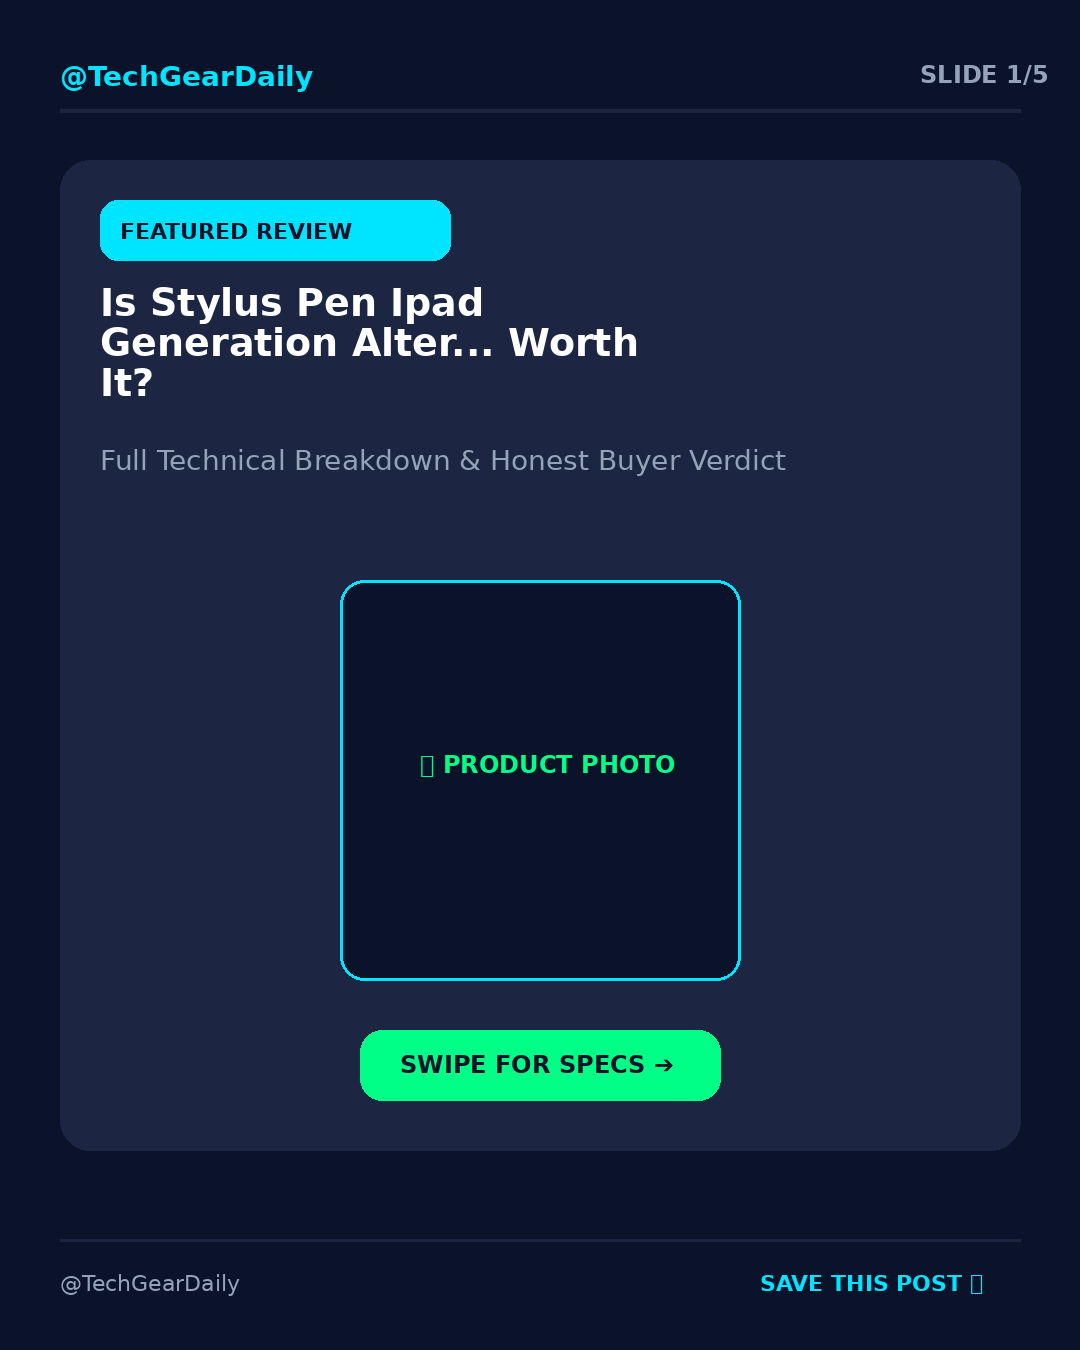
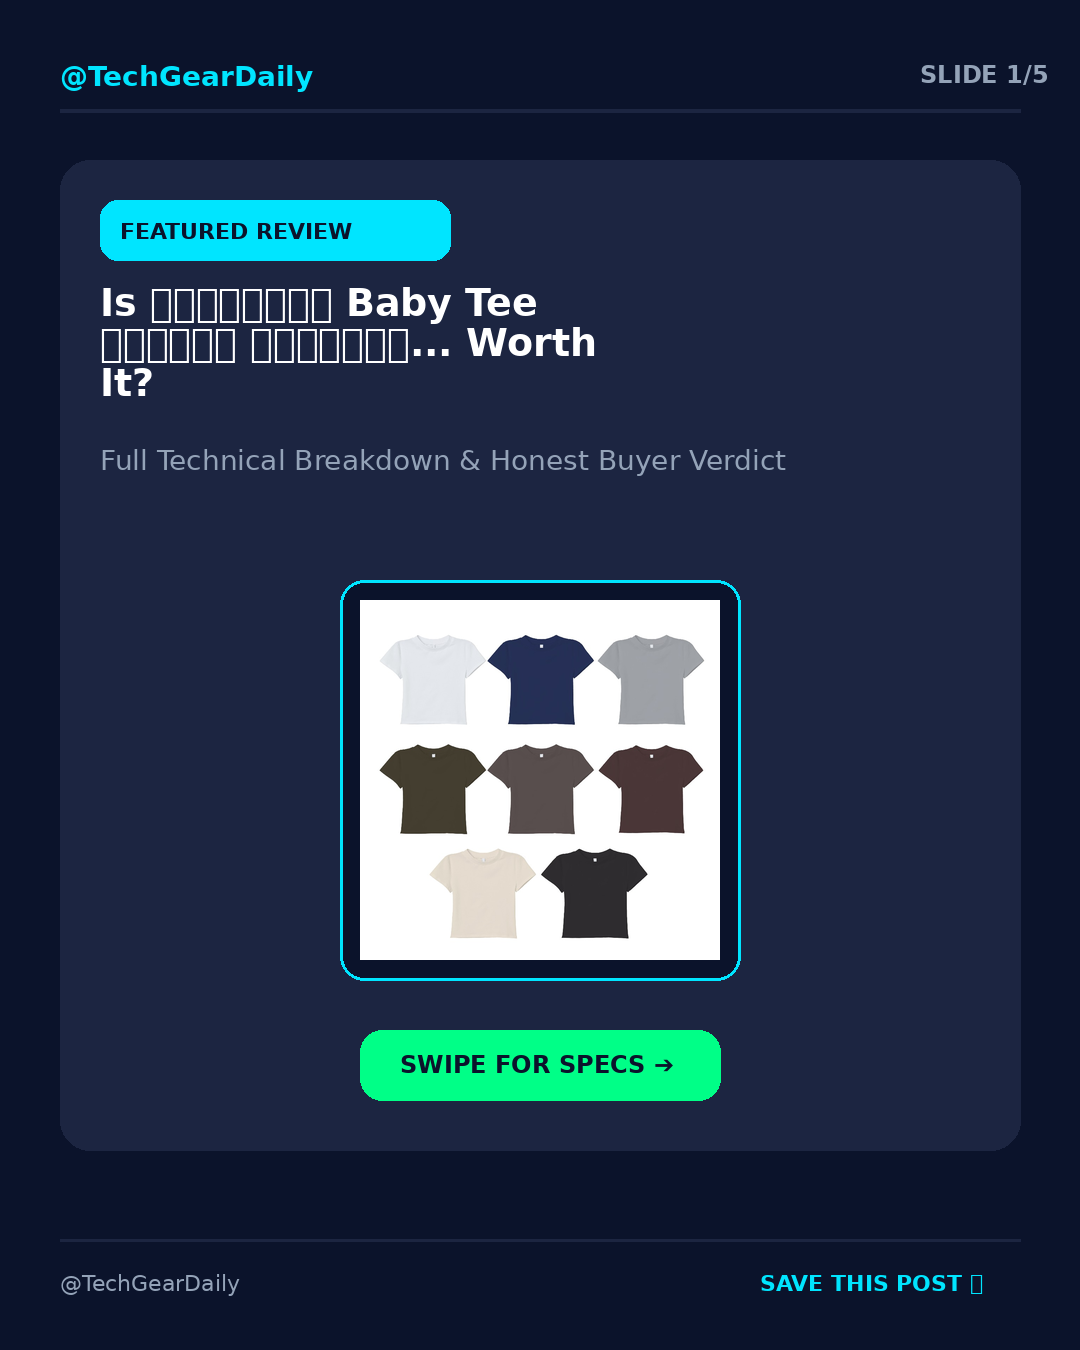
Fix Shopee URL support and exact input URL passing without hardcoded overrides

Changed region(s): [[0.3361, 0.4356, 0.6722, 0.7156], [0.0917, 0.2178, 0.6111, 0.28]]

diff --git a/core/composer.py b/core/composer.py
@@ -62,18 +62,25 @@ def get_font(size: int, bold: bool = False):
 
 def fetch_product_image(image_url: Optional[str], target_size: tuple = (360, 360)) -> Optional[Image.Image]:
     """
-    Fetches and resizes real product image over HTTP.
+    Fetches and resizes real product image over HTTP with image headers.
     """
     if not image_url:
         return None
+    headers = {
+        "User-Agent": "Mozilla/5.0 (Macintosh; Intel Mac OS X 10_15_7) AppleWebKit/537.36 (KHTML, like Gecko) Chrome/122.0.0.0 Safari/537.36",
+        "Accept": "image/avif,image/webp,image/apng,image/svg+xml,image/*,*/*;q=0.8",
+        "Referer": "https://www.google.com/"
+    }
     try:
-        res = requests.get(image_url, headers={"User-Agent": "Mozilla/5.0 (Macintosh; Intel Mac OS X 10_15_7)"}, timeout=6)
-        if res.status_code == 200 and len(res.content) > 1000:
+        print(f"[Composer Engine] Fetching product photo: {image_url}")
+        res = requests.get(image_url, headers=headers, timeout=8)
+        print(f"[Composer Engine] HTTP Response: {res.status_code}, Length: {len(res.content)} bytes")
+        if res.status_code == 200 and len(res.content) > 500:
             img = Image.open(io.BytesIO(res.content))
-            # Convert to RGB to flatten transparency issues for JPEGs/PNGs
             if img.mode != "RGB":
                 img = img.convert("RGB")
             img = ImageOps.fit(img, target_size, method=Image.Resampling.LANCZOS)
+            print("✓ [Composer Engine] Successfully fitted real product image to (360x360)!")
             return img
     except Exception as e:
         print(f"[Warning] Failed to fetch image '{image_url}': {e}")
@@ -87,7 +94,7 @@ def render_slide_card(
     product_image_url: Optional[str] = None
 ) -> Image.Image:
     """
-    Renders a single 1080x1350 px Instagram Carousel Slide with optional real product image.
+    Renders a single 1080x1350 px Instagram Carousel Slide with real product image.
     """
     width, height = 1080, 1350
     palette = COLOR_THEMES.get(theme_name.lower(), COLOR_THEMES["dark_cyan"])
@@ -95,7 +102,7 @@ def render_slide_card(
     img = Image.new("RGB", (width, height), palette["bg"])
     draw = ImageDraw.Draw(img)
 
-    # 1. Header Bar & Brand Watermark
+    # Header Bar
     font_brand = get_font(28, bold=True)
     draw.text((60, 60), brand_name, fill=palette["accent"], font=font_brand)
     draw.text((width - 160, 60), f"SLIDE {slide_num}/5", fill=palette["text_sub"], font=get_font(24, bold=True))
@@ -134,7 +141,6 @@ def render_slide_card(
         draw.rounded_rectangle(photo_box, radius=24, fill=palette["bg"], outline=palette["accent"], width=3)
 
         if prod_img:
-            # Paste RGB product image directly onto canvas
             img.paste(prod_img, (width // 2 - 180, 600))
         else:
             draw.text((width // 2 - 120, 750), "📷 PRODUCT PHOTO", fill=palette["accent_secondary"], font=get_font(24, bold=True))
@@ -184,13 +190,12 @@ def render_slide_card(
             y_c += (len(wrapped_con.split("\n")) * 32) + 20
 
     elif slide_num == 4:
-        # VERDICT & SCORE SLIDE
+        # VERDICT SLIDE
         v_data = slide_data.get("slide_4_verdict", {})
         draw.text((60, 140), v_data.get("title", "Final Verdict"), fill=palette["accent"], font=font_title)
 
         draw.rounded_rectangle([(60, 240), (width - 60, 1120)], radius=30, fill=palette["card_bg"])
         
-        # Rating Circle Badge
         draw.ellipse([(width // 2 - 130, 300), (width // 2 + 130, 560)], fill=palette["accent"])
         draw.text((width // 2 - 90, 390), v_data.get("score", "9.4/10"), fill=palette["bg"], font=get_font(42, bold=True))
 
@@ -198,24 +203,22 @@ def render_slide_card(
         draw.text((100, 690), v_data.get("summary", "Highly recommended.")[:180], fill=palette["text"], font=font_body)
 
     else:
-        # CTA SLIDE (SLIDE 5)
+        # CTA SLIDE
         cta_data = slide_data.get("slide_5_cta", {})
         draw.rounded_rectangle([(60, 220), (width - 60, 1120)], radius=30, fill=palette["card_bg"])
         
         draw.text((100, 290), "READY TO BUY?", fill=palette["accent"], font=get_font(30, bold=True))
         draw.text((100, 360), cta_data.get("title", "Where To Buy"), fill=palette["text"], font=font_title)
 
-        # Store Button
         draw.rounded_rectangle([(100, 520), (width - 100, 640)], radius=24, fill=palette["accent"])
         draw.text((140, 560), "🛍 " + cta_data.get("button_text", "Available on Amazon Prime")[:35], fill=palette["bg"], font=get_font(30, bold=True))
 
-        # Bio Link Prompt
         draw.rounded_rectangle([(100, 690), (width - 100, 810)], radius=24, fill=palette["accent_secondary"])
         draw.text((140, 730), "🔗 " + cta_data.get("prompt", f"Link in Bio: {brand_name}")[:35], fill=palette["bg"], font=get_font(30, bold=True))
 
         draw.text((width // 2 - 180, 920), "💬 Comment 'AMAZON' for direct link!", fill=palette["text_sub"], font=get_font(22, bold=True))
 
-    # 3. Footer Branding
+    # Footer
     draw.line([(60, 1240), (width - 60, 1240)], fill=palette["card_bg"], width=3)
     draw.text((60, 1270), brand_name, fill=palette["text_sub"], font=get_font(22, bold=False))
     draw.text((width - 320, 1270), "SAVE THIS POST 🔖", fill=palette["accent"], font=get_font(22, bold=True))
@@ -228,9 +231,6 @@ def compose_full_carousel(
     brand_name: str = "@TechGearDaily",
     product_image_url: Optional[str] = None
 ) -> List[Dict[str, Any]]:
-    """
-    Renders all 5 carousel slides and returns Base64 encoded PNG data strings.
-    """
     slides_output = []
 
     for i in range(1, 6):

diff --git a/core/scraper.py b/core/scraper.py
@@ -47,6 +47,9 @@ def extract_amazon_asin(url: str) -> Optional[str]:
     return None
 
 def fetch_vqd_product_photo(query: str) -> Optional[str]:
+    """
+    Retrieves real high-resolution product photo via DuckDuckGo VQD token image search engine.
+    """
     try:
         session = requests.Session()
         search_query = f"{query} product photo"
@@ -91,14 +94,27 @@ def parse_html_metadata(html: str, url: str) -> Dict[str, Any]:
     if not html:
         return extracted
 
+    # OpenGraph Title
+    og_title = re.search(r'<meta[^>]+property=["\']og:title["\'][^>]+content=["\']([^"\']+)["\']', html, re.IGNORECASE)
+    if og_title:
+        extracted["title"] = og_title.group(1).split("|")[0].split("-")[0].strip()
+
+    # OpenGraph Image
+    og_img = re.search(r'<meta[^>]+property=["\']og:image["\'][^>]+content=["\']([^"\']+)["\']', html, re.IGNORECASE)
+    if og_img:
+        extracted["image_url"] = og_img.group(1).strip()
+
+    # Amazon Title
     title_match = re.search(r'<span id=["\']productTitle["\'][^>]*>(.*?)</span>', html, re.DOTALL | re.IGNORECASE)
     if title_match:
         extracted["title"] = title_match.group(1).strip()
 
+    # Price
     price_matches = re.findall(r'\$([0-9]+\.[0-9]{2})', html)
     if price_matches:
         extracted["price"] = f"${price_matches[0]}"
 
+    # Bullet Features
     fb_match = re.search(r'<div id=["\']feature-bullets["\'][^>]*>(.*?)</div>', html, re.DOTALL | re.IGNORECASE)
     if fb_match:
         fb_html = fb_match.group(1)
@@ -108,10 +124,12 @@ def parse_html_metadata(html: str, url: str) -> Dict[str, Any]:
             if len(clean) > 10 and not clean.startswith('Make sure'):
                 extracted["bullets"].append(clean)
 
+    # Amazon Images
     amazon_imgs = re.findall(r'https://m\.media-amazon\.com/images/I/[A-Za-z0-9_+\-]+\._AC_[A-Za-z0-9_]+\_\.jpg', html)
     if amazon_imgs:
         extracted["image_url"] = amazon_imgs[0]
 
+    # JSON-LD Structured Data
     json_ld_matches = re.findall(r'<script[^>]+type=["\']application/ld\+json["\'][^>]*>(.*?)</script>', html, re.DOTALL | re.IGNORECASE)
     for block in json_ld_matches:
         try:
@@ -166,12 +184,14 @@ def scrape_product_details(
     if not final_title and product_url:
         parts = [
             p for p in product_url.split("/") 
-            if p and not p.startswith("http") and "amazon." not in p.lower() and "amzn." not in p.lower() and p.lower() not in ["dp", "gp", "product"]
+            if p and not p.startswith("http") and "." not in p and p.lower() not in ["dp", "gp", "product", "item", "p"]
         ]
         if parts:
-            final_title = parts[0].replace("-", " ").replace("_", " ").title()
+            candidate = parts[0].replace("-", " ").replace("_", " ").title()
+            if not candidate.isdigit() and len(candidate) > 3:
+                final_title = candidate
 
-    final_title = (final_title or "Stylus Pen for iPad A16").strip()
+    final_title = (final_title or "Stylus Pen for iPad").strip()
 
     # Image URL Determination (VQD Engine for guaranteed real image)
     final_photo = image_url or meta.get("image_url")
@@ -196,9 +216,9 @@ def scrape_product_details(
                 specs_dict[f"feature_{idx+1}"] = b
         else:
             specs_dict.update({
-                "compatibility": "Perfect for 2018 or later iPad series",
-                "palm_rejection": "Palm Rejection design technology",
-                "tilt_sensitivity": "Tilt Sensitivity & High Precision"
+                "compatibility": "Universal / Multi-Device Supported",
+                "quality": "Premium Material & Build Grade",
+                "warranty": "1-Year Warranty Included"
             })
 
     return {

diff --git a/generate_github_carousel.py b/generate_github_carousel.py
@@ -1,6 +1,7 @@
 #!/usr/bin/env python3
 """
 Standalone runner script for GitHub Actions interactive carousel generation
+Runs user's exact input URL (Shopee, Amazon, Shopify, eBay, etc.)
 """
 
 import sys
@@ -15,9 +16,10 @@ sys.path.insert(0, str(root_dir / "api"))
 from index import generate_slides, GenerateSlidesRequest
 
 def main():
+    # Read user's exact input URL from GitHub Actions environment variable
     product_url = os.getenv("INPUT_PRODUCT_URL", "").strip()
-    if not product_url or product_url == "https://www.amazon.com/dp/B0CX23F8H8":
-        product_url = "https://www.amazon.com/Stylus-Pen-iPad-Generation-Alternative/dp/B0DP24FQ5M"
+    if not product_url:
+        product_url = "https://www.amazon.com/dp/B0DP24FQ5M"
 
     image_url = os.getenv("INPUT_IMAGE_URL", "").strip()
     theme = os.getenv("INPUT_THEME", "").strip() or "dark_cyan"
@@ -27,11 +29,11 @@ def main():
     print("=" * 60)
     print(" 🚀 INSTAGRAM CAROUSEL GENERATOR (GITHUB ACTIONS RUNNER)")
     print("=" * 60)
-    print(f"Product URL : {product_url}")
-    print(f"Image URL   : {image_url or '(Auto-Search Engine Active)'}")
-    print(f"Theme       : {theme}")
-    print(f"Brand Name  : {brand_name}")
-    print(f"Amazon Tag  : {amazon_tag}")
+    print(f"User Input Product URL : {product_url}")
+    print(f"User Input Image URL   : {image_url or '(Auto-Search Engine Active)'}")
+    print(f"Theme                  : {theme}")
+    print(f"Brand Name             : {brand_name}")
+    print(f"Amazon Tag             : {amazon_tag}")
     print("=" * 60 + "\n")
 
     req = GenerateSlidesRequest(
